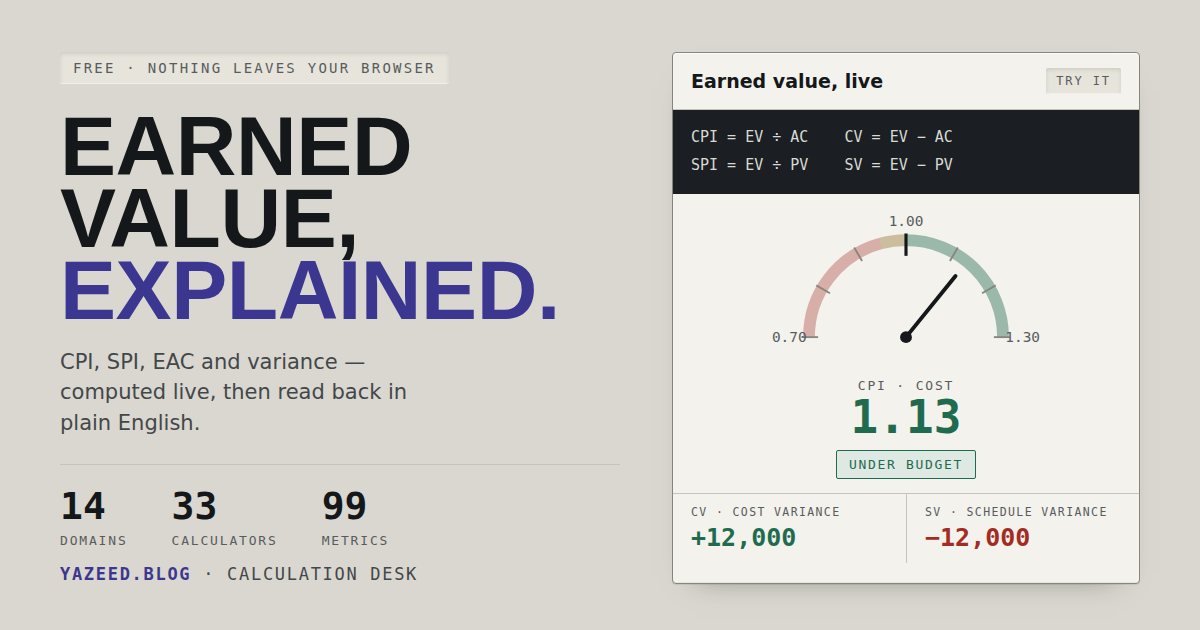
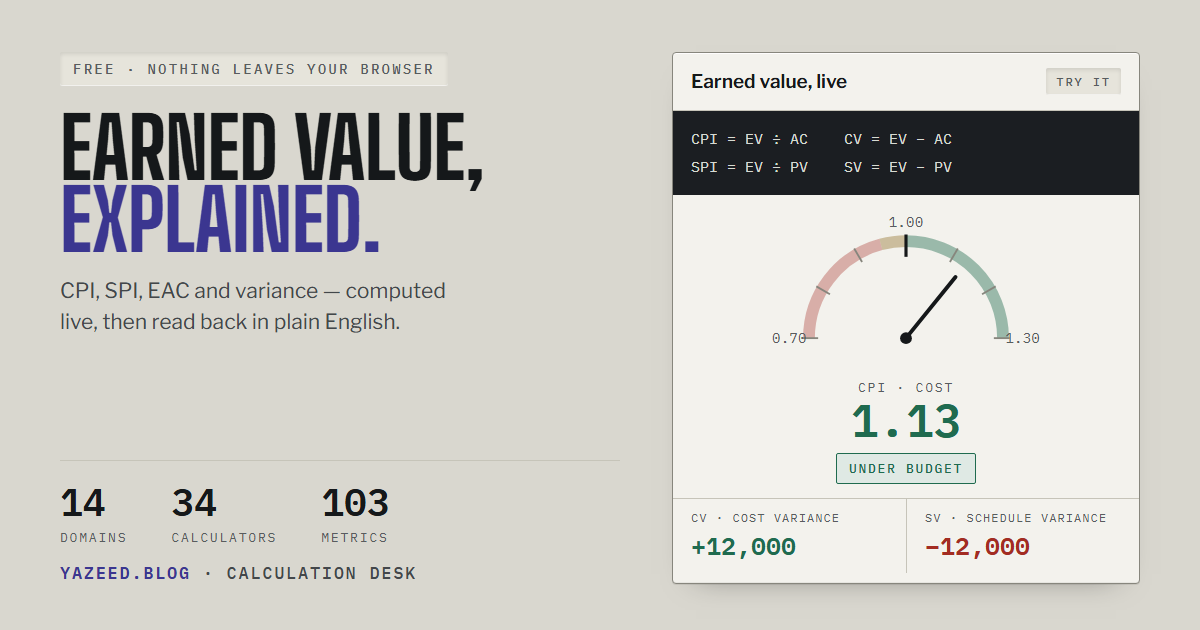
Implement Earned Schedule card and count ripple

diff --git a/index.html b/index.html
@@ -3,8 +3,8 @@
 <head>
   <meta charset="utf-8">
   <meta name="viewport" content="width=device-width, initial-scale=1">
-  <title>Earned Value Formulas Explained — CPI, SPI, EAC, PERT &amp; 33 PM Calculators</title>
-  <meta name="description" content="Earned value formulas explained and computed live — CPI, SPI, EAC, ETC, TCPI and variance, each read back in plain English. Plus 33 PM calculators, free.">
+  <title>Earned Value Formulas Explained — CPI, SPI, EAC, PERT &amp; 34 PM Calculators</title>
+  <meta name="description" content="Earned value formulas explained and computed live — CPI, SPI, EAC, ETC, TCPI and variance, each read back in plain English. Plus 34 PM calculators, free.">
   <!-- www and the apex both answer 200 with identical content, so name the one
        Google should index. Without this the two compete as duplicates. -->
   <link rel="canonical" href="https://yazeed.blog/">
@@ -24,12 +24,12 @@
   <meta property="og:type" content="website">
   <meta property="og:url" content="https://yazeed.blog/">
   <meta property="og:site_name" content="Calculation Desk">
-  <meta property="og:title" content="Earned Value Formulas Explained — CPI, SPI, EAC &amp; 33 PM Calculators">
-  <meta property="og:description" content="Earned value computed live and read back in plain English, plus 33 project-management calculators across 14 domains. Free, nothing leaves your browser.">
+  <meta property="og:title" content="Earned Value Formulas Explained — CPI, SPI, EAC &amp; 34 PM Calculators">
+  <meta property="og:description" content="Earned value computed live and read back in plain English, plus 34 project-management calculators across 14 domains. Free, nothing leaves your browser.">
   <meta property="og:image" content="https://yazeed.blog/og.png">
   <meta property="og:image:width" content="1200">
   <meta property="og:image:height" content="630">
-  <meta property="og:image:alt" content="Earned value, explained — a cost performance index gauge reading 1.13, under budget, beside the count of 14 domains, 33 calculators and 99 metrics.">
+  <meta property="og:image:alt" content="Earned value, explained — a cost performance index gauge reading 1.13, under budget, beside the count of 14 domains, 34 calculators and 103 metrics.">
   <meta name="twitter:card" content="summary_large_image">
   <link rel="preconnect" href="https://fonts.googleapis.com">
   <link rel="preconnect" href="https://fonts.gstatic.com" crossorigin>
@@ -1610,7 +1610,7 @@ h2 {
     "@type": "WebApplication",
     "name": "Calculation Desk",
     "url": "https://yazeed.blog/",
-    "description": "Earned value formulas explained and computed live — CPI, SPI, EAC, ETC, TCPI and variance — plus 33 project-management calculators across 14 domains. Free, client-side only.",
+    "description": "Earned value formulas explained and computed live — CPI, SPI, EAC, ETC, TCPI and variance — plus 34 project-management calculators across 14 domains. Free, client-side only.",
     "applicationCategory": "BusinessApplication",
     "operatingSystem": "Any",
     "browserRequirements": "Requires JavaScript",
@@ -1677,7 +1677,7 @@ h2 {
           <h1 id="hero-h">Earned value, <span>explained</span>.</h1>
           <p class="hero-lede">
             CPI, SPI, EAC, ETC and variance &mdash; computed live, then read back in plain
-            English. Plus 33 calculators across 14 domains: critical path, risk,
+            English. Plus 34 calculators across 14 domains: critical path, risk,
             procurement, agile forecasting.
           </p>
           <ul class="creds">
@@ -1695,11 +1695,11 @@ h2 {
                 <span class="hero-fig-lab">Domains</span>
               </div>
               <div>
-                <span class="hero-fig-num">33</span>
+                <span class="hero-fig-num">34</span>
                 <span class="hero-fig-lab">Calculators</span>
               </div>
               <div>
-                <span class="hero-fig-num">99</span>
+                <span class="hero-fig-num">103</span>
                 <span class="hero-fig-lab">Metrics</span>
               </div>
             </div>
@@ -1778,7 +1778,7 @@ h2 {
             </div>
 
             <p class="instrument-foot">
-              Four of 99 metrics on the
+              Four of 103 metrics on the
               <a href="#calc-sections">desk below</a>.
             </p>
           </figure>
@@ -2149,6 +2149,119 @@ var PM_DATA = (function () {
                   label: 'TCPI', scaleLabel: 'Efficiency required on remaining work',
                   summary: 'Remaining work must run at ' + f2(r.tcpiBac) + ' efficiency to land on the original budget' +
                     (typeof r.cpi === 'number' ? ', versus ' + f2(r.cpi) + ' achieved to date.' : '.')
+                };
+              }
+            }
+          ]
+        },
+        {
+          id: 'earned-schedule',
+          name: 'Earned Schedule',
+          tagline: 'ES · SV(t) · SPI(t) · IEAC(t)',
+          about: 'SPI can look healthy late in a project because PV is running out. Earned Schedule puts EV back on the time axis. This card assumes <strong>LINEAR PV</strong> — the useful, explicit approximation for a four-input reading. Treat IEAC(t) as a trend, not a committed finish date.',
+          formula: [
+            'ES = PD × (EV ÷ BAC)',
+            'SV(t) = ES − AT',
+            'SPI(t) = ES ÷ AT',
+            'IEAC(t) = PD ÷ SPI(t)'
+          ],
+          howto: [
+            'Enter BAC and PD from the approved baseline, then enter EV and AT from the same status date.',
+            'Read SV(t) for the time gap and SPI(t) for the direction and efficiency of travel. Check that the linear-PV assumption is reasonable for this project.',
+            'Use IEAC(t) as a trend to test recovery options; reconcile it to the time-phased schedule before committing to a finish date.'
+          ],
+          inputs: [
+            { key: 'bac', label: 'BAC — Budget at Completion', meaning: 'Total approved budget for the complete scope. Currency; must be greater than 0.', placeholder: 'e.g. 200000' },
+            { key: 'pd', label: 'PD — Planned duration', meaning: 'Baseline duration from start to planned finish. Periods; use a positive value.', placeholder: 'e.g. 12' },
+            { key: 'at', label: 'AT — Actual time', meaning: 'Time elapsed at the status date. Periods; must be greater than 0 for SPI(t).', placeholder: 'e.g. 8' },
+            { key: 'ev', label: 'EV — Earned Value', meaning: 'Budgeted value of the work actually complete. Same currency as BAC; zero is valid.', placeholder: 'e.g. 120000' }
+          ],
+          outputs: [
+            {
+              group: 'Earned time',
+              key: 'es', label: 'Earned Schedule (ES)', format: 'num',
+              meaning: 'The baseline time equivalent of the EV entered.',
+              compute: function (v) {
+                return ok(v.bac, v.pd, v.at, v.ev) && v.bac > 0 && v.pd > 0
+                  ? v.pd * (v.ev / v.bac) : null;
+              }
+            },
+            {
+              group: 'Earned time',
+              key: 'svt', label: 'Schedule Variance (SV(t))', format: 'num',
+              meaning: 'The time difference at the status date. Negative means late.',
+              compute: function (v) {
+                return ok(v.bac, v.pd, v.at, v.ev) && v.bac > 0 && v.pd > 0
+                  ? v.pd * (v.ev / v.bac) - v.at : null;
+              }
+            },
+            {
+              group: 'Earned time',
+              key: 'spit', label: 'Schedule Performance Index (SPI(t))', format: 'ratio',
+              meaning: 'Time efficiency, with 1.00 as the plan line.',
+              compute: function (v) {
+                return ok(v.bac, v.pd, v.at, v.ev) && v.bac > 0 && v.pd > 0 && v.at > 0
+                  ? (v.pd * (v.ev / v.bac)) / v.at : null;
+              },
+              interpret: function (x) {
+                return x > 1
+                  ? good('Ahead of the time baseline. The completed work represents more planned time than the project has consumed.')
+                  : x === 1
+                    ? info('On the time baseline. Earned schedule and actual time match.')
+                    : bad('Behind the time baseline. The completed work represents fewer planned periods than have elapsed.');
+              }
+            },
+            {
+              group: 'Forecasting completion',
+              key: 'ieac', label: 'Independent Estimate at Completion (IEAC(t))', format: 'num',
+              meaning: 'A duration forecast under the same efficiency and linear-PV assumption; it is not a promise and it is not a calendar finish date.',
+              compute: function (v) {
+                if (!ok(v.bac, v.pd, v.at, v.ev) || v.bac <= 0 || v.pd <= 0 || v.at <= 0) return null;
+                var spit = (v.pd * (v.ev / v.bac)) / v.at;
+                return spit > 0 ? v.pd / spit : null;
+              }
+            }
+          ],
+          charts: [
+            {
+              title: 'Earned time position',
+              purpose: 'The time the completed work earned against actual time and plan.',
+              kind: 'bars',
+              build: function (v, r) {
+                if (!ok(r.es, v.at)) return null;
+                var relation = r.svt > 0 ? 'ahead of' : r.svt < 0 ? 'behind' : 'on';
+                return {
+                  series: [
+                    { label: 'ES', sub: 'earned', value: r.es, tone: r.svt >= 0 ? 'good' : 'bad' },
+                    { label: 'AT', sub: 'actual', value: v.at, tone: 'accent' }
+                  ],
+                  refValue: v.pd,
+                  refLabel: 'PD',
+                  catHead: 'Time (periods)',
+                  summary: 'Earned schedule is ' + f2(r.es) + ' periods against ' + f2(v.at) +
+                    ' actual, ' + relation + ' the time baseline.'
+                };
+              }
+            },
+            {
+              title: 'SPI(t) time efficiency',
+              purpose: 'Earned schedule per period of actual time, crossed at 1.00.',
+              kind: 'meter',
+              build: function (v, r) {
+                if (!ok(r.spit)) return null;
+                return {
+                  value: r.spit,
+                  min: 0,
+                  max: 1.5,
+                  target: 1,
+                  targetLabel: 'on plan',
+                  zones: [
+                    { from: 0, to: 0.9, tone: 'bad', label: 'behind' },
+                    { from: 0.9, to: 1, tone: 'warn', label: 'watch' },
+                    { from: 1, to: 1.5, tone: 'good', label: 'ahead' }
+                  ],
+                  label: 'SPI(t)',
+                  summary: 'SPI(t) is ' + f2(r.spit) + '. Under the linear-PV assumption, use it as a trend, not a committed finish date.'
                 };
               }
             }
@@ -4033,6 +4146,9 @@ var EXAMPLES = {
     values: { bac: 200000, pv: 120000, ev: 108000, ac: 96000 },
     note: 'Six months in: efficient spend, behind schedule.'
   },
+  'calc-earned-schedule': {
+    values: { bac: 200000, pd: 12, at: 8, ev: 120000 }
+  },
   'calc-time-forecast': {
     values: { plannedDur: 12, ev: 80000, pv: 100000 },
     note: 'Progress is 80% of plan, pointing to a three-period slip.'
@@ -5128,7 +5244,7 @@ var PM_CHART_MOUNT = (function () {
   }
 
   /* One resize pass for the whole sheet, rather than an observer per chart:
-     33 independent ResizeObservers is how a page starts dropping frames. */
+     independent ResizeObservers are how a page starts dropping frames. */
   var all = [];
   var resizeTimer = null;
   function onResize() {
@@ -5489,6 +5605,7 @@ var PM_CHART_MOUNT = (function () {
        family rather than only the cards that happen to say the word. */
     var searchText = (categoryName + ' ' + card.name + ' ' + card.tagline + ' ' +
       card.about + ' ' + card.formula.join(' ') + ' ' +
+      (card.howto ? card.howto.join(' ') + ' ' : '') +
       card.outputs.map(function (o) { return o.label; }).join(' ')).toLowerCase();
 
     var el = document.createElement('article');
@@ -5514,6 +5631,15 @@ var PM_CHART_MOUNT = (function () {
         '<div class="inputs"><h4>Parameters</h4>' + card.inputs.map(inputField).join('') + '</div>' +
         '<div class="outputs"><h4>Results</h4>' + resultsHtml + '</div>' +
       '</div>' +
+      (card.howto ?
+        '<div class="howto card-howto">' +
+          '<p class="label">How to use it</p>' +
+          '<ol class="howto-steps">' +
+            card.howto.map(function (step) {
+              return '<li><span class="howto-text">' + step + '</span></li>';
+            }).join('') +
+          '</ol>' +
+        '</div>' : '') +
       /* Results appear silently: a sighted reader watches the numbers land,
          a screen-reader user gets nothing. role="status" is atomic and
          polite by default, so each announcement replaces the last rather

diff --git a/design/og-card.source.html b/design/og-card.source.html
@@ -102,8 +102,8 @@
     <div>
       <div class="figs">
         <div><span class="fig-n">14</span><span class="fig-l">Domains</span></div>
-        <div><span class="fig-n">33</span><span class="fig-l">Calculators</span></div>
-        <div><span class="fig-n">99</span><span class="fig-l">Metrics</span></div>
+        <div><span class="fig-n">34</span><span class="fig-l">Calculators</span></div>
+        <div><span class="fig-n">103</span><span class="fig-l">Metrics</span></div>
       </div>
       <div class="site"><b>yazeed.blog</b> &middot; Calculation Desk</div>
     </div>
